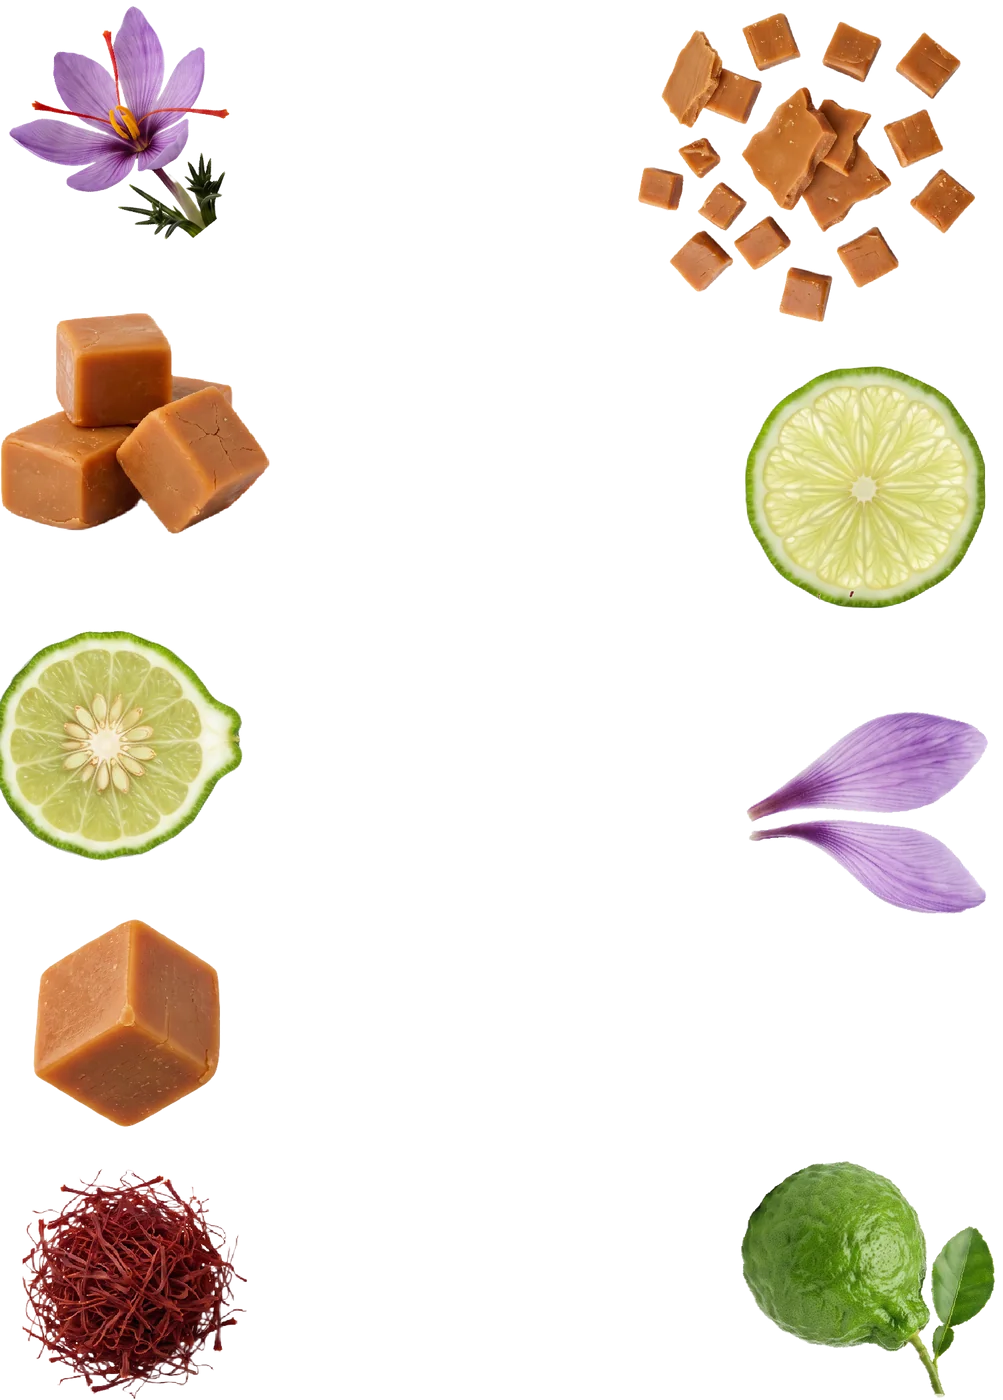
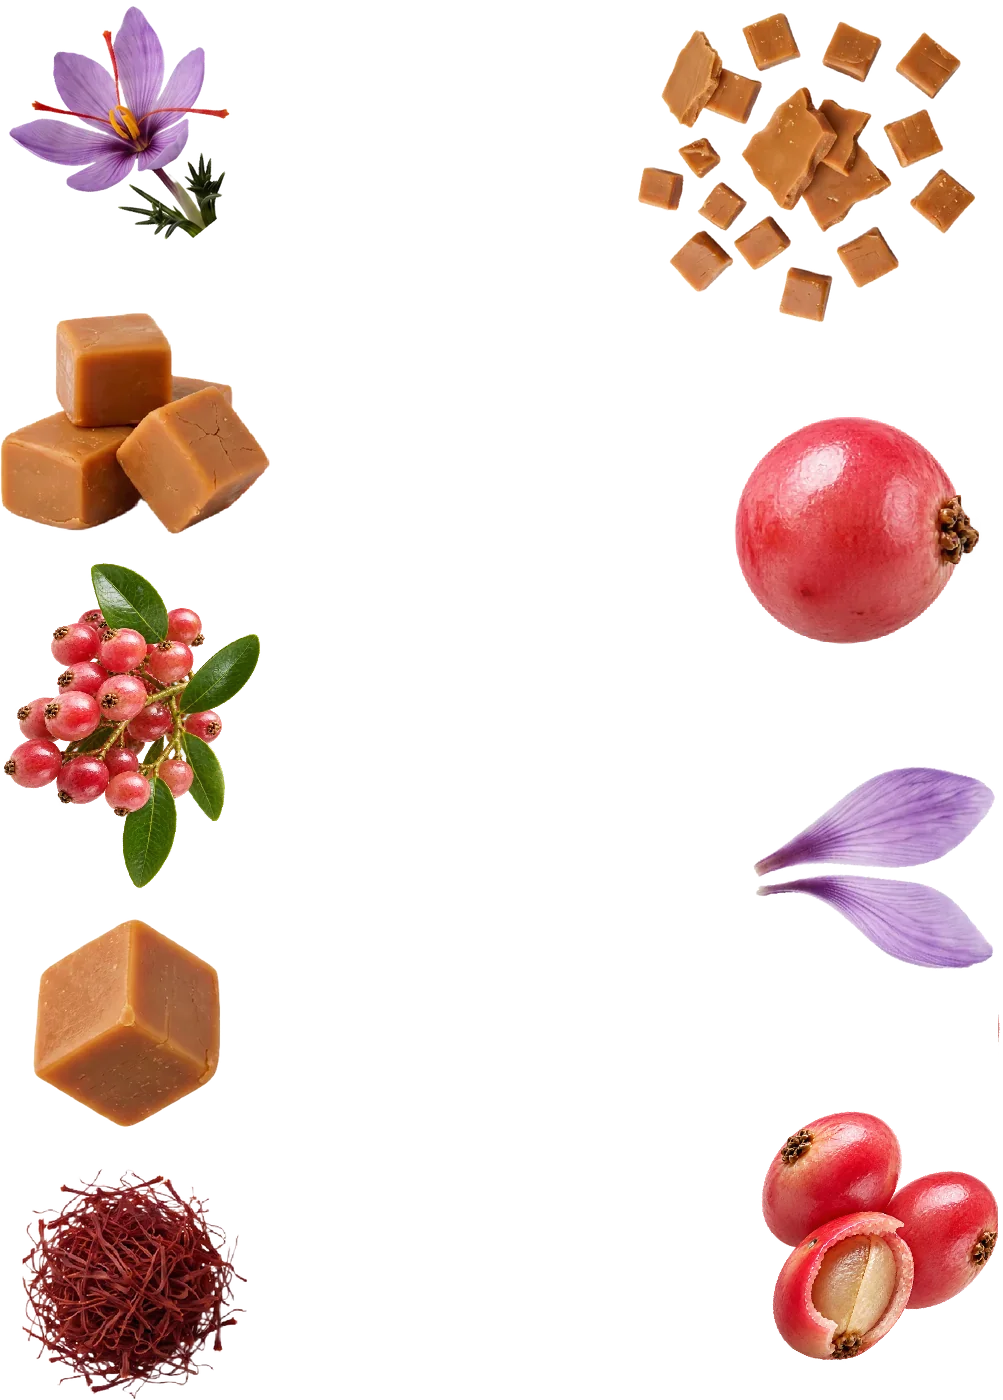
modifico los ingredientes de las fragancias faltantes

diff --git a/legacy/labs-scroll/scripts/constants.js b/legacy/labs-scroll/scripts/constants.js
@@ -34,7 +34,6 @@ export const Saffron = [
   `${INGREDIENTS_PATH}Saffron1.png`,
   `${INGREDIENTS_PATH}Saffron2.png`,
 ];
-export const PinkPepper = [];
 export const Caramel = [
   `${INGREDIENTS_PATH}Caramel.png`,
   `${INGREDIENTS_PATH}Caramel1.png`,
@@ -62,7 +61,7 @@ export const Almond = [
   `${INGREDIENTS_PATH}Almond1.png`,
   `${INGREDIENTS_PATH}Almond2.png`,
 ];
-export const Dates = [];
+
 export const Lilac = [
   `${INGREDIENTS_PATH}Lilac.png`,
   `${INGREDIENTS_PATH}Lilac1.png`,
@@ -98,7 +97,6 @@ export const Jasmine = [
   `${INGREDIENTS_PATH}Jasmine1.png`,
   `${INGREDIENTS_PATH}Jasmine2.png`,
 ];
-export const YangLang = [];
 export const Vanilla = [
   `${INGREDIENTS_PATH}Vanilla.png`,
   `${INGREDIENTS_PATH}Vanilla1.png`,
@@ -119,19 +117,33 @@ export const BulgarianRose = [
   `${INGREDIENTS_PATH}BulgarianRose1.png`,
   `${INGREDIENTS_PATH}BulgarianRose2.png`,
 ];
+export const PinkPepper = [
+  `${INGREDIENTS_PATH}pinkPepper1.webp`,
+  `${INGREDIENTS_PATH}pinkPepper2.webp`,
+  `${INGREDIENTS_PATH}pinkPepper3.webp`,
+];
+export const YangLang = [
+  `${INGREDIENTS_PATH}ylangYlang1.webp`,
+  `${INGREDIENTS_PATH}ylangYlang2.webp`,
+  `${INGREDIENTS_PATH}ylangYlang3.webp`,
+];
+export const Dates = [
+  `${INGREDIENTS_PATH}dates1.webp`,
+  `${INGREDIENTS_PATH}dates2.webp`,
+  `${INGREDIENTS_PATH}dates3.webp`,
+];
 
 // ---------------------------------------------------------------------------
 // Fragancias: producto + sus ingredientes
 // ---------------------------------------------------------------------------
 
-export const FraganciaRebellious = {
+export const FraganciaRebellious = { // ESTA
   idx: 1,
   nombre: 'Rebellious',
   fragancia: Rebellious,
   ingredientes: [
     { nombre: 'Saffron', imagenes: Saffron },
-    // { nombre: 'Pink Pepper', imagenes: PinkPepper }, // falta imagen
-    { nombre: 'Bergamot', imagenes: Bergamot }, // Quitar este
+    { nombre: 'Pink Pepper', imagenes: PinkPepper },
     { nombre: 'Caramel', imagenes: Caramel },
   ],
 };
@@ -145,14 +157,13 @@ export const FraganciaForbiddenFlower = {
     { nombre: 'Freesia', imagenes: Freesia },
   ],
 };
-export const FraganciaWonderOfTheWorld = {
+export const FraganciaWonderOfTheWorld = { // ESTA
   idx: 3,
   nombre: 'Wonder of the World',
   fragancia: WonderOfTheWorld,
   ingredientes: [
     { nombre: 'Almond', imagenes: Almond },
-    //    { nombre: 'Dates', imagenes: Dates }, // falta imagen
-    { nombre: 'Freesia', imagenes: Freesia }, // sacar esta
+    { nombre: 'Dates', imagenes: Dates },
     { nombre: 'Caramel', imagenes: Caramel },
   ],
 };
@@ -166,13 +177,12 @@ export const FraganciaPainkiller = {
     { nombre: 'Musk', imagenes: Musk },
   ],
 };
-export const FraganciaJaggedEdge = {
+export const FraganciaJaggedEdge = { //ESTA
   idx: 5,
   nombre: 'Jagged Edge',
   fragancia: JaggedEdge,
   ingredientes: [
-    // { nombre: 'Pink Pepper', imagenes: PinkPepper }, // falta imagen
-    { nombre: 'Bergamot', imagenes: Bergamot }, // Quitar este
+    { nombre: 'Pink Pepper', imagenes: PinkPepper },
     { nombre: 'Tonka Bean', imagenes: TonkaBean },
     { nombre: 'Rose', imagenes: Rose },
   ],
@@ -187,13 +197,12 @@ export const FraganciaCrimsonDesert = {
     { nombre: 'Jasmine', imagenes: Jasmine },
   ],
 };
-export const FraganciaGlitterati = {
+export const FraganciaGlitterati = { // ESTA
   idx: 7,
   nombre: 'Glitterati',
   fragancia: Glitterati,
   ingredientes: [
-    // { nombre: 'Yang Lang', imagenes: YangLang }, // falta imagen
-    { nombre: 'Jasmine', imagenes: Jasmine }, // Quitar este
+    { nombre: 'Yang Lang', imagenes: YangLang },
     { nombre: 'Vanilla', imagenes: Vanilla },
     { nombre: 'Musk', imagenes: Musk },
   ],
